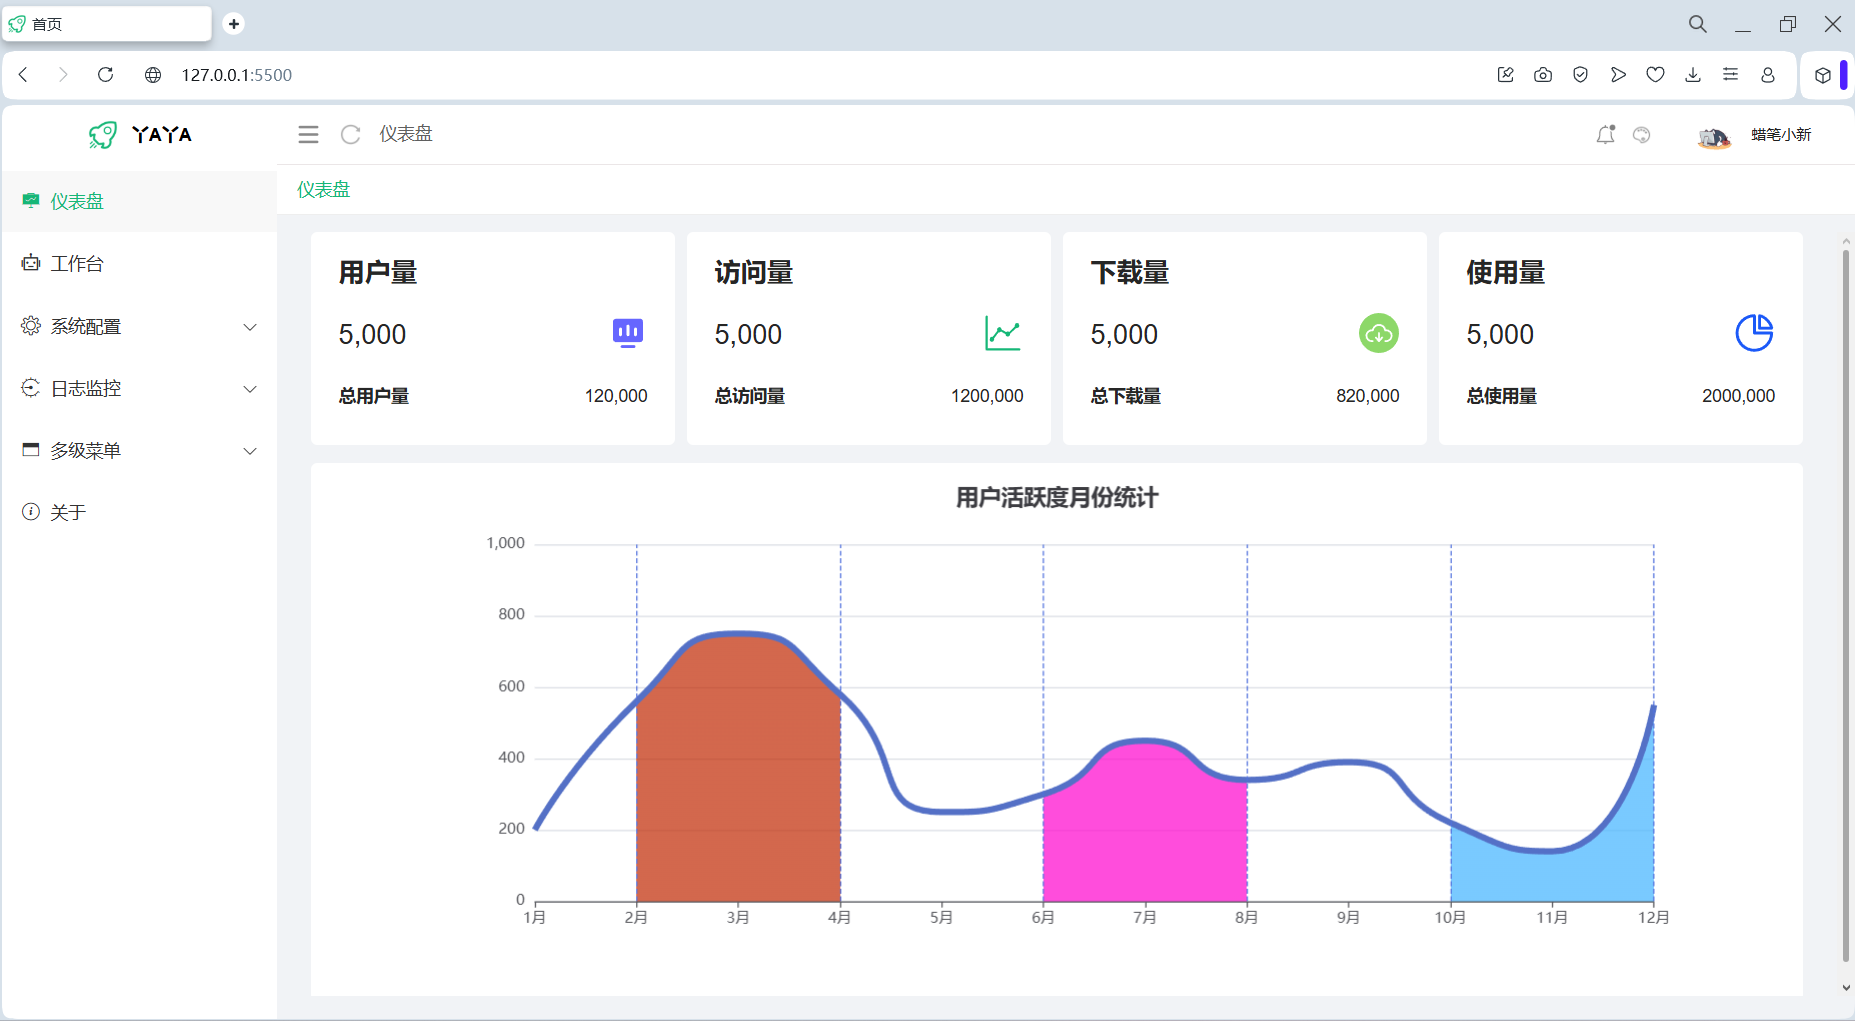
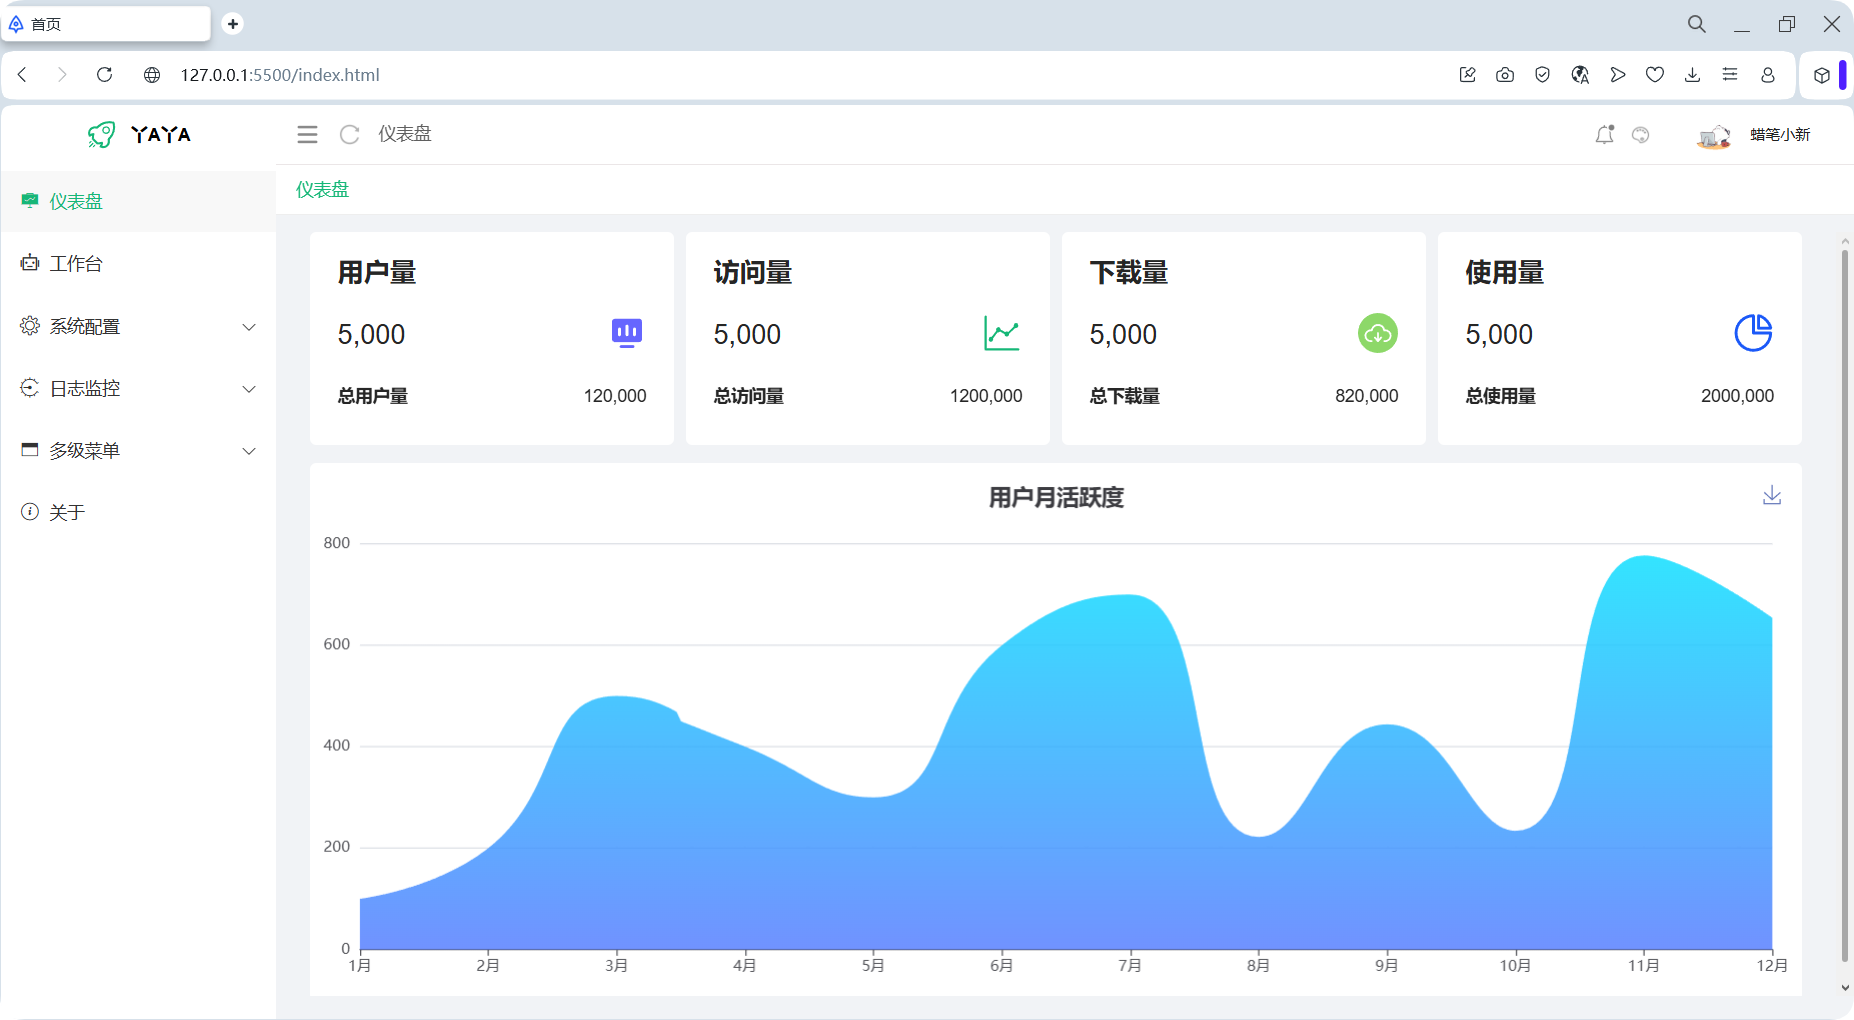
yaya-layui-admin-plus 首页图表更新

diff --git a/views/dashboard.html b/views/dashboard.html
@@ -128,69 +128,70 @@
         layui.use(function(){
             const myChart = echarts.init(document.getElementById('main'));
             let option = {
+                color: ['#00DDFF'],
                 title: {
-                    text: '用户活跃度月份统计'
+                    text: '用户月活跃度'
                 },
-                xAxis: {
-                    type: 'category',
-                    boundaryGap: false
+                grid: {
+                    left: '1%',   // 距离左侧边界
+                    right: '2%',  // 距离右侧边界
+                    top: '15%',   // 距离顶部边界
+                    bottom: '5%', // 距离底部边界
+                    containLabel: true // 关键：设置为 true 可以防止坐标轴标签溢出容器
                 },
-                yAxis: {
-                    type: 'value',
-                    boundaryGap: [0, '30%']
-                },
-                visualMap: {
-                    type: 'piecewise',
-                    show: false,
-                    dimension: 0,
-                    seriesIndex: 0,
-                    pieces: [
-                        {
-                            gt: 1,
-                            lt: 3,
-                            color: '#BF2600'
-                        },
-                        {
-                            gt: 5,
-                            lt: 7,
-                            color: '#FF00CC'
-                        },
-                        {
-                            gt: 9,
-                            lt: 11,
-                            color: '#3FB2FF'
+                tooltip: {
+                    trigger: 'axis',
+                    axisPointer: {
+                        type: 'cross',
+                        label: {
+                            backgroundColor: '#6a7985'
                         }
-                    ]
+                    }
                 },
+                toolbox: {
+                    feature: {
+                        saveAsImage: {}
+                    }
+                },
+                xAxis: [
+                    {
+                        type: 'category',
+                        boundaryGap: false,
+                        data: ['1月', '2月', '3月', '4月', '5月', '6月', '7月','8月','9月','10月','11月','12月']
+                    }
+                ],
+                yAxis: [
+                    {
+                        type: 'value'
+                    }
+                ],
                 series: [
                     {
+                        name: 'pv',
                         type: 'line',
-                        smooth: 0.6,
-                        symbol: 'none',
+                        stack: 'Total',
+                        smooth: true,
                         lineStyle: {
-                            color: '#5470C6',
-                            width: 5
+                            width: 0
                         },
-                        markLine: {
-                            symbol: ['none', 'none'],
-                            label: { show: false },
-                            data: [{ xAxis: 1 }, { xAxis: 3 }, { xAxis: 5 }, { xAxis: 7 }, { xAxis: 9 }, { xAxis: 11 }]
+                        showSymbol: false,
+                        areaStyle: {
+                            opacity: 0.8,
+                            color: new echarts.graphic.LinearGradient(0, 0, 0, 1, [
+                                {
+                                    offset: 0,
+                                    color: 'rgb(0, 221, 255)'
+                                },
+                                {
+                                    offset: 1,
+                                    color: 'rgb(77, 119, 255)'
+                                }
+                            ])
                         },
-                        areaStyle: {},
-                        data: [
-                            ['1月', 200],
-                            ['2月', 560],
-                            ['3月', 750],
-                            ['4月', 580],
-                            ['5月', 250],
-                            ['6月', 300],
-                            ['7月', 450],
-                            ['8月', 340],
-                            ['9月', 390],
-                            ['10月', 220],
-                            ['11月', 140],
-                            ['12月', 550]
-                        ]
+                        emphasis: {
+                            focus: 'series'
+                        },
+                        data: [100, 200, 500, 400, 300, 600, 700,222,444,234,777,654]
                     }
                 ]
             };
